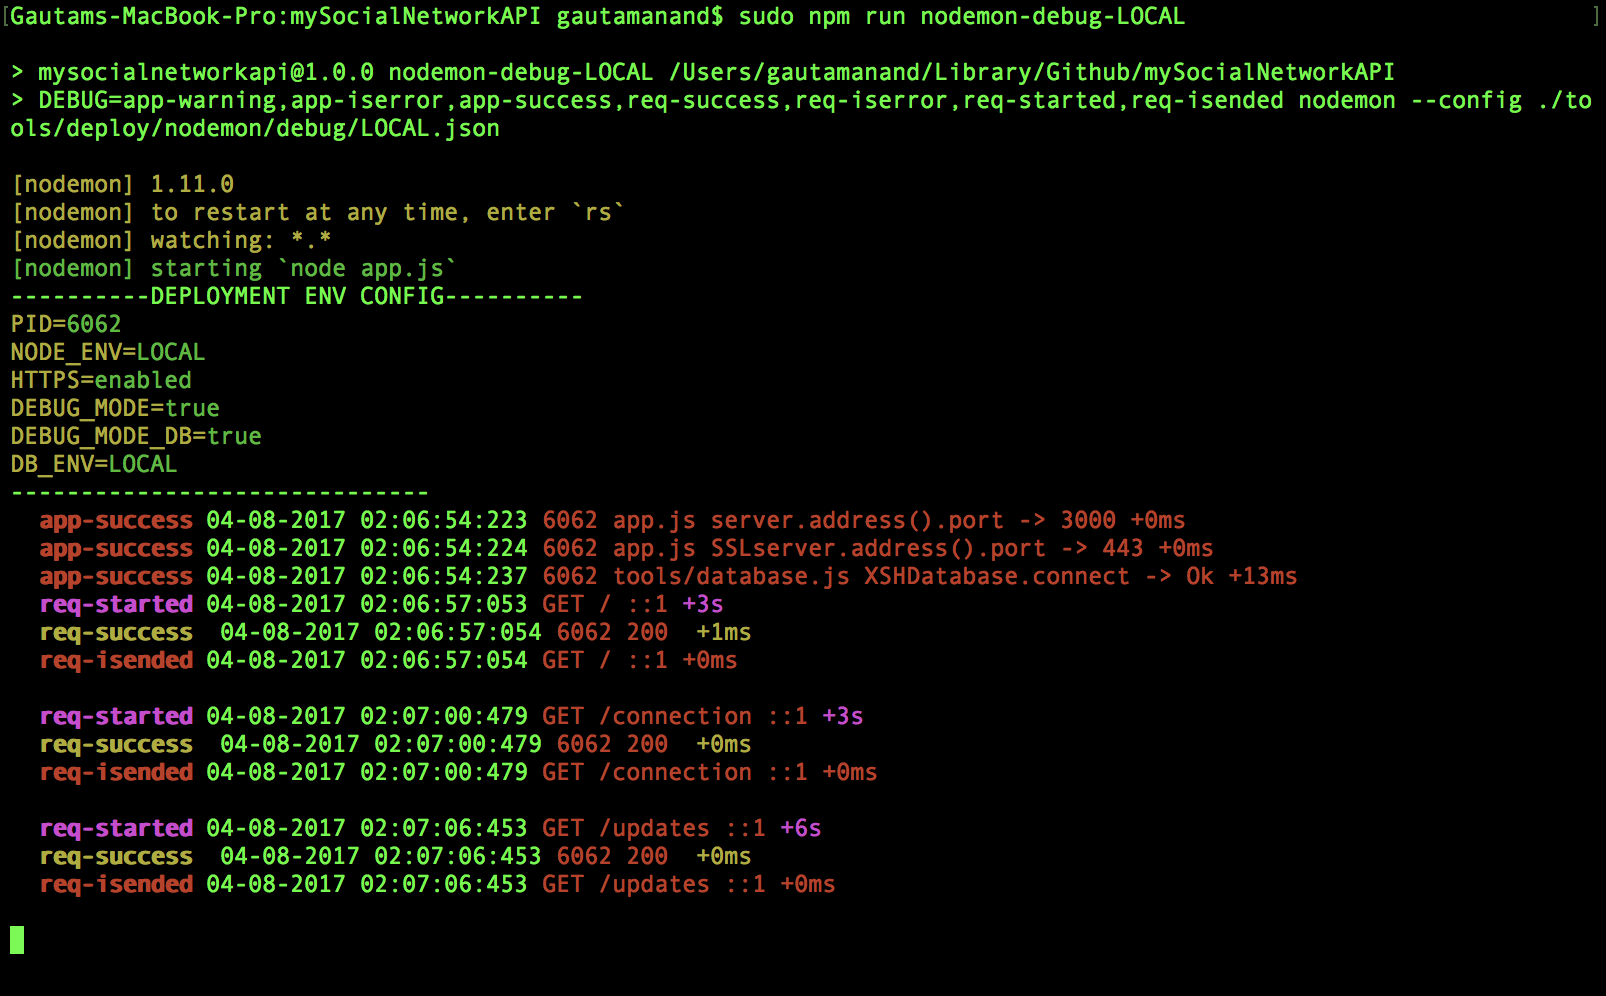
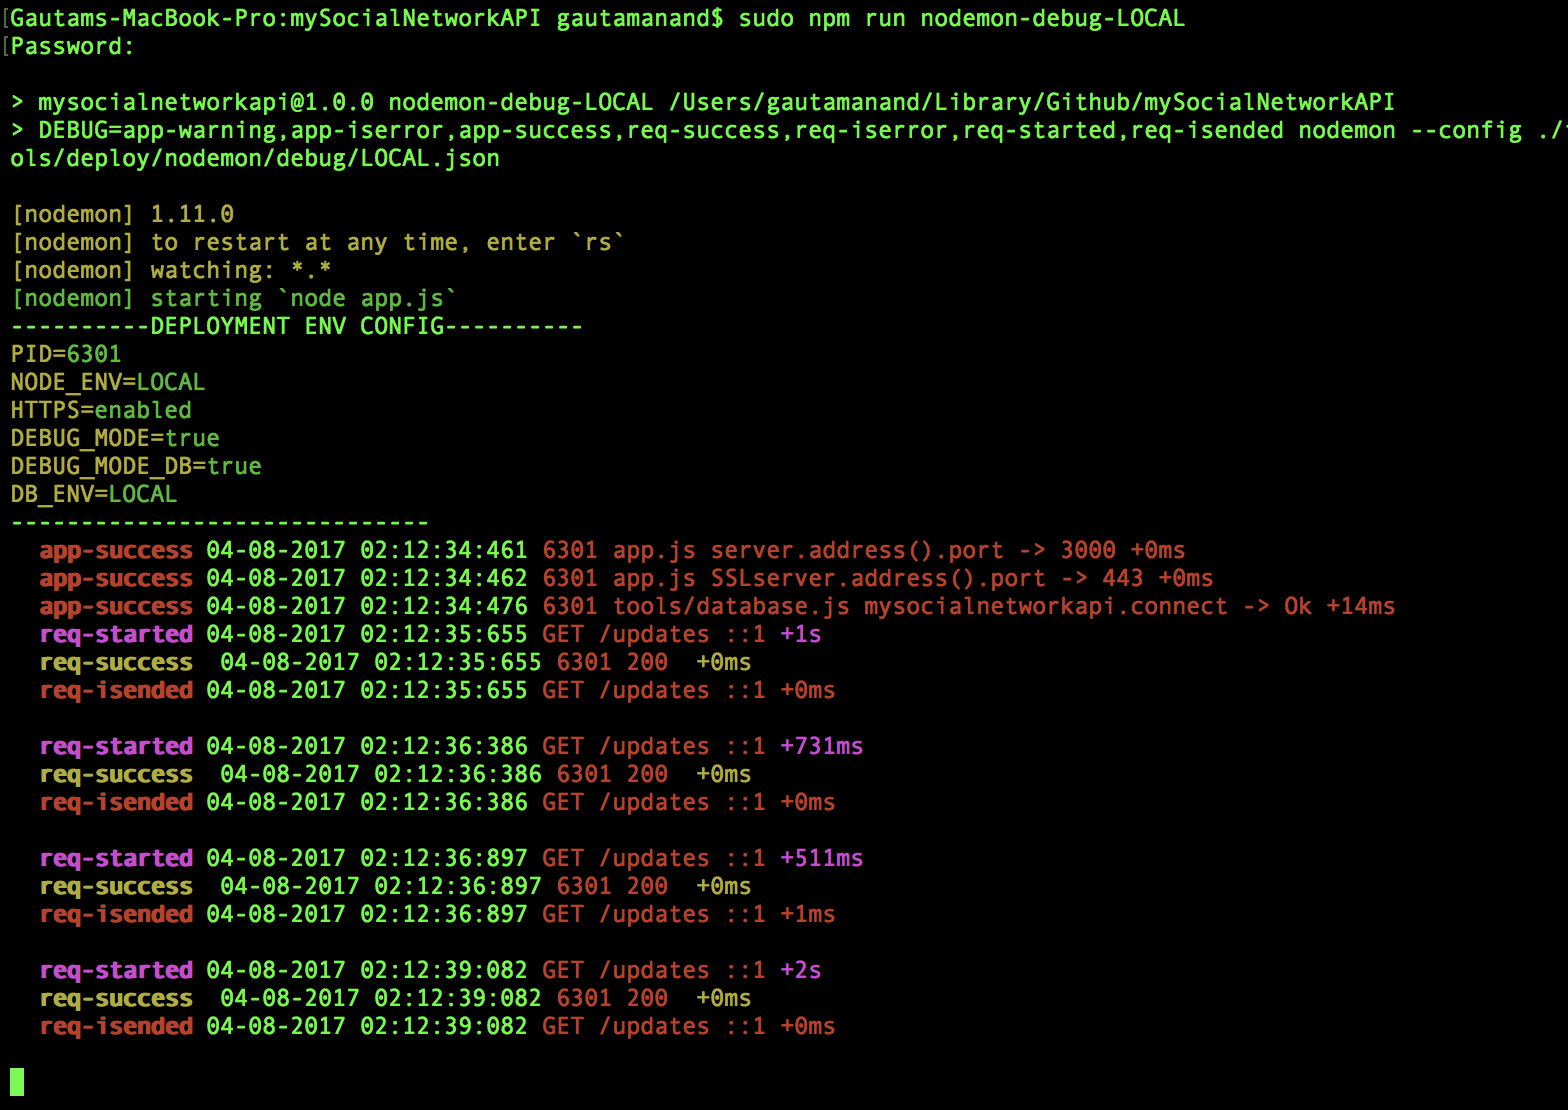
Task06: Completed,  some minor fixing mistakes and screenshot added for task06

Changed region(s): [[0.0, 0.0, 1.0, 0.996], [0.8125, 0.5291, 0.9062, 0.5602]]

diff --git a/controllers/updates.js b/controllers/updates.js
@@ -3,84 +3,84 @@
  * (c) 2017 Gautam ANAND (me@gautamanand.in)
  * controllers/users.js
  */
-'use strict';
+ 'use strict';
 
-var async = require('async');
-var applicationName = require('../package.json').name;
-var updatesModel = require('../models/updates');
-var connectionModel = require('../models/connection');
+ var async = require('async');
+ var applicationName = require('../package.json').name;
+ var updatesModel = require('../models/updates');
+ var connectionModel = require('../models/connection');
 
-exports.READ_ALL = function(req, res) {
-	var AllUpdates = [];
-	async.parallel([
-			function(callback) {
-				updatesModel.find(function(err, update) {
-					if (err) {
-						return res.send(err);
-					}
+ exports.READ_ALL = function(req, res) {
+ 	var AllUpdates = [];
+ 	async.parallel([
+ 		function(callback) {
+ 			updatesModel.find(function(err, update) {
+ 				if (err) {
+ 					return res.send(err);
+ 				}
 
-					if (req.query.block) {
-						if (req.query.block === 'true') {
-							for (var i = 0; i < update.length; i++) {
-								if (update[i].isBlocked === true) {
-									AllUpdates.push({
-										id: update[i]._id,
-										requestor: update[i].requestor,
-										target: update[i].target,
-										isBlocked: update[i].isBlocked,
-										timeaccessed: update[i].timeaccessed
-									});
-								}
-							}
-						}
-						if (req.query.block === 'false') {
-							for (var i = 0; i < update.length; i++) {
-								if (update[i].isBlocked === false) {
-									AllUpdates.push({
-										id: update[i]._id,
-										requestor: update[i].requestor,
-										target: update[i].target,
-										isBlocked: update[i].isBlocked,
-										timeaccessed: update[i].timeaccessed
-									});
-								}
-							}
-						}
-					} else {
-						for (var i = 0; i < update.length; i++) {
-							AllUpdates.push({
-								id: update[i]._id,
-								requestor: update[i].requestor,
-								target: update[i].target,
-								isBlocked: update[i].isBlocked,
-								timeaccessed: update[i].timeaccessed
-							});
-						}
-					}
+ 				if (req.query.block) {
+ 					if (req.query.block === 'true') {
+ 						for (var i = 0; i < update.length; i++) {
+ 							if (update[i].isBlocked === true) {
+ 								AllUpdates.push({
+ 									id: update[i]._id,
+ 									requestor: update[i].requestor,
+ 									target: update[i].target,
+ 									isBlocked: update[i].isBlocked,
+ 									timeaccessed: update[i].timeaccessed
+ 								});
+ 							}
+ 						}
+ 					}
+ 					if (req.query.block === 'false') {
+ 						for (var i = 0; i < update.length; i++) {
+ 							if (update[i].isBlocked === false) {
+ 								AllUpdates.push({
+ 									id: update[i]._id,
+ 									requestor: update[i].requestor,
+ 									target: update[i].target,
+ 									isBlocked: update[i].isBlocked,
+ 									timeaccessed: update[i].timeaccessed
+ 								});
+ 							}
+ 						}
+ 					}
+ 				} else {
+ 					for (var i = 0; i < update.length; i++) {
+ 						AllUpdates.push({
+ 							id: update[i]._id,
+ 							requestor: update[i].requestor,
+ 							target: update[i].target,
+ 							isBlocked: update[i].isBlocked,
+ 							timeaccessed: update[i].timeaccessed
+ 						});
+ 					}
+ 				}
 
 
-				}).lean().exec(callback);
-			}
-		],
-		function(err, results) {
-			if (err) {
-				return res.send(err);
-			}
+ 			}).lean().exec(callback);
+ 		}
+ 		],
+ 		function(err, results) {
+ 			if (err) {
+ 				return res.send(err);
+ 			}
 
-			updatesModel.count({}, function(err, count_updates) {
-				if (count_updates > 0) {
-					res.json(AllUpdates);
-				} else {
-					res.json({
-						error: {
-							value: true,
-							message: 'You have not made any subscriptions for the friends that are connected.'
-						}
-					});
-				}
-			});
-		});
-}
+ 			updatesModel.count({}, function(err, count_updates) {
+ 				if (count_updates > 0) {
+ 					res.json(AllUpdates);
+ 				} else {
+ 					res.json({
+ 						error: {
+ 							value: true,
+ 							message: 'You have not made any subscriptions for the friends that are connected.'
+ 						}
+ 					});
+ 				}
+ 			});
+ 		});
+ }
 
 /*
 Use any HTTP Client like POSTMAN and pass the following as POST request in body/raw/JSON
@@ -136,7 +136,6 @@ Suppose "andy@example.com" blocks "john@example.com":
 
 */
 exports.BLOCK = function(req, res) {
-	var isConnected = [];
 	/*
 	Error cases:
 	- req.body.requestor should exists
@@ -156,17 +155,17 @@ exports.BLOCK = function(req, res) {
 				return res.send(err);
 			}
 			updatesModel.findOne({
-					requestor: {
-						$eq: req.body.requestor
-					},
-					target: {
-						$eq: req.body.target
-					}
+				requestor: {
+					$eq: req.body.requestor
 				},
-				function(err, isConnected) {
-					if (err) {
-						return res.send(err);
-					}
+				target: {
+					$eq: req.body.target
+				}
+			},
+			function(err, isConnected) {
+				if (err) {
+					return res.send(err);
+				}
 					isConnected.isBlocked = true; //Change the isBlock Status
 					isConnected.save(function(err) {
 						if (err) {
@@ -206,17 +205,46 @@ Eligibility for receiving updates from i.e. "john@example.com":
 - has been @mentioned in the update
 */
 exports.LIST_ALL = function(req, res) {
-
-
 	/*
-	{
-		"success": true
-		"recipients":
-		[
-		"lisa@example.com",
-		"kate@example.com"
-		]
-	}
+	Error cases:
+	- req.body.sender should exists
+	- req.body.sender should of type string
+	- req.body.sender should be defined
+	- req.body.text should exists
+	- req.body.text should of type string
+	- req.body.text should be defined
 	*/
 
+	if (req.body.sender && typeof(req.body.sender) === 'string' && req.body.sender !== undefined && req.body.text && typeof(req.body.text) === 'string' && req.body.text !== undefined) {
+		var canRecievedEmails = [];
+		//Check updates db if target === req.body.sender && isBlocked === false
+		//By default it is subscribed as isBlocked === false
+		updatesModel.find({
+			target: {
+				$eq: req.body.sender
+			},
+			isBlocked: {
+				$eq: false
+			}
+		}, function(err, update) {
+			if (err) {
+				return res.send(err);
+			}
+
+			for (var i = 0; i < update.length; i++) {
+				canRecievedEmails.push(update[i].requestor);
+			}
+
+			res.json({
+				"success": true,
+				"recipients": canRecievedEmails
+			})
+		});
+
+	} else {
+		res.json({
+			"err": true,
+			"message": "You JSON is invalid"
+		})
+	}
 }

diff --git a/tools/database.js b/tools/database.js
@@ -33,9 +33,9 @@
  exports.DatabaseURIPromise = mongoose.Promise = global.Promise;
  exports.DatabaseURI = mongoose.connect(connectionString4Database, DatabaseURIOptions, function(err) {
  	if (err) {
- 		debugerror(timestamp(timeFormat) + ' ' + colors.green(debugpath) + colors.green('XSHDatabase.connect.err -> ') + colors.green(err));
+ 		debugerror(timestamp(timeFormat) + ' ' + colors.green(debugpath) + colors.green('mysocialnetworkapi.connect.err -> ') + colors.green(err));
  	} else {
- 		debugsuccess(timestamp(timeFormat) + ' ' + colors.red(debugpath) + colors.red('XSHDatabase.connect -> ') + colors.red('Ok'));
+ 		debugsuccess(timestamp(timeFormat) + ' ' + colors.red(debugpath) + colors.red('mysocialnetworkapi.connect -> ') + colors.red('Ok'));
  	}
  });
 

diff --git a/README.md b/README.md
@@ -5,7 +5,7 @@
 
 Hey there, I am Gautam ANAND, another Full Stack Engineer that loves Node.js. I like to build solutions that are scalable. This project is a code sample that demonstrates the way i write the code and maintain if it was a usual day at work. The motive is to provide a simple software which is easy to read/evaluate.
 
-- In case you plan to hire me, then have a look at my latest [CV here](https://www.visualcv.com/gautamanand/pdf)
+In case you plan to hire me, then have a look at my latest [CV here](https://www.visualcv.com/gautamanand/pdf)
 
 ## Problem statement for this project
 
@@ -63,7 +63,7 @@ I have used Node.js (v6.x.x), MongoDB (v3.4.X) and Express.js (4.X) as technolog
 
    - #### 6.2 Fast track setup
      - `npm run genfakeSSL`: Generate a fakeSSL on the local system. This only required if you want to use HTTPS, for easy usage i have not enforced SSL on every request.
-     - `npm run onetime`: This will do `npm i && bower install && grunt build && grunt lint`.
+     - `npm run onetime` or `npm run onetime-root`: This will do `npm i && bower install && grunt build`.
      - `npm run nodemon-debug-LOCAL` : This will start the local version in nodemon. Goto `https://localhost:3000`.
 
    - ### 6.3 Detailed setup instructions that you need to execute on your system console (for advance users/discussion)

diff --git a/docs/screenshots/README.md b/docs/screenshots/README.md
@@ -86,7 +86,7 @@
 
 ### POST /updates/emails
 
-- TBA
+![alt text](https://github.com/serganus/mySocialNetworkAPI/raw/master/docs/screenshots/POSTupdatesemails.png)
 
 
 
